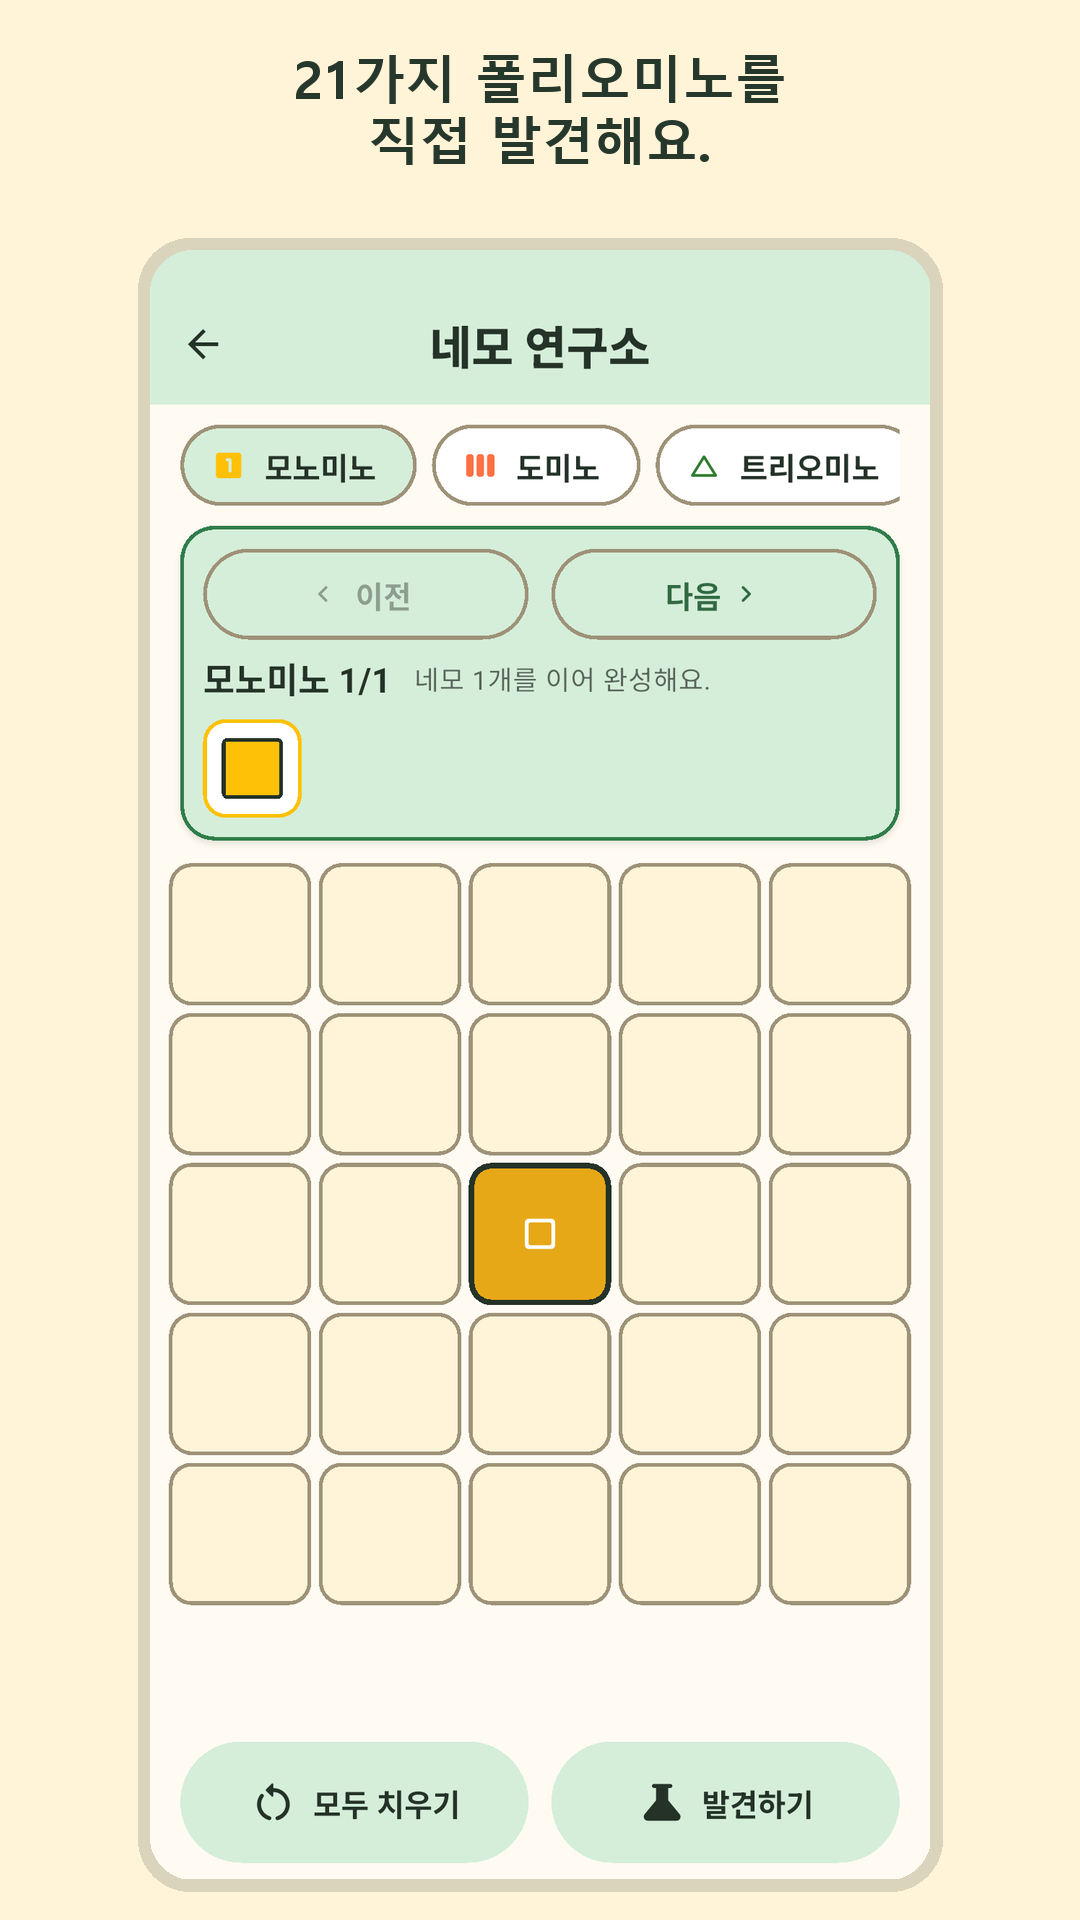
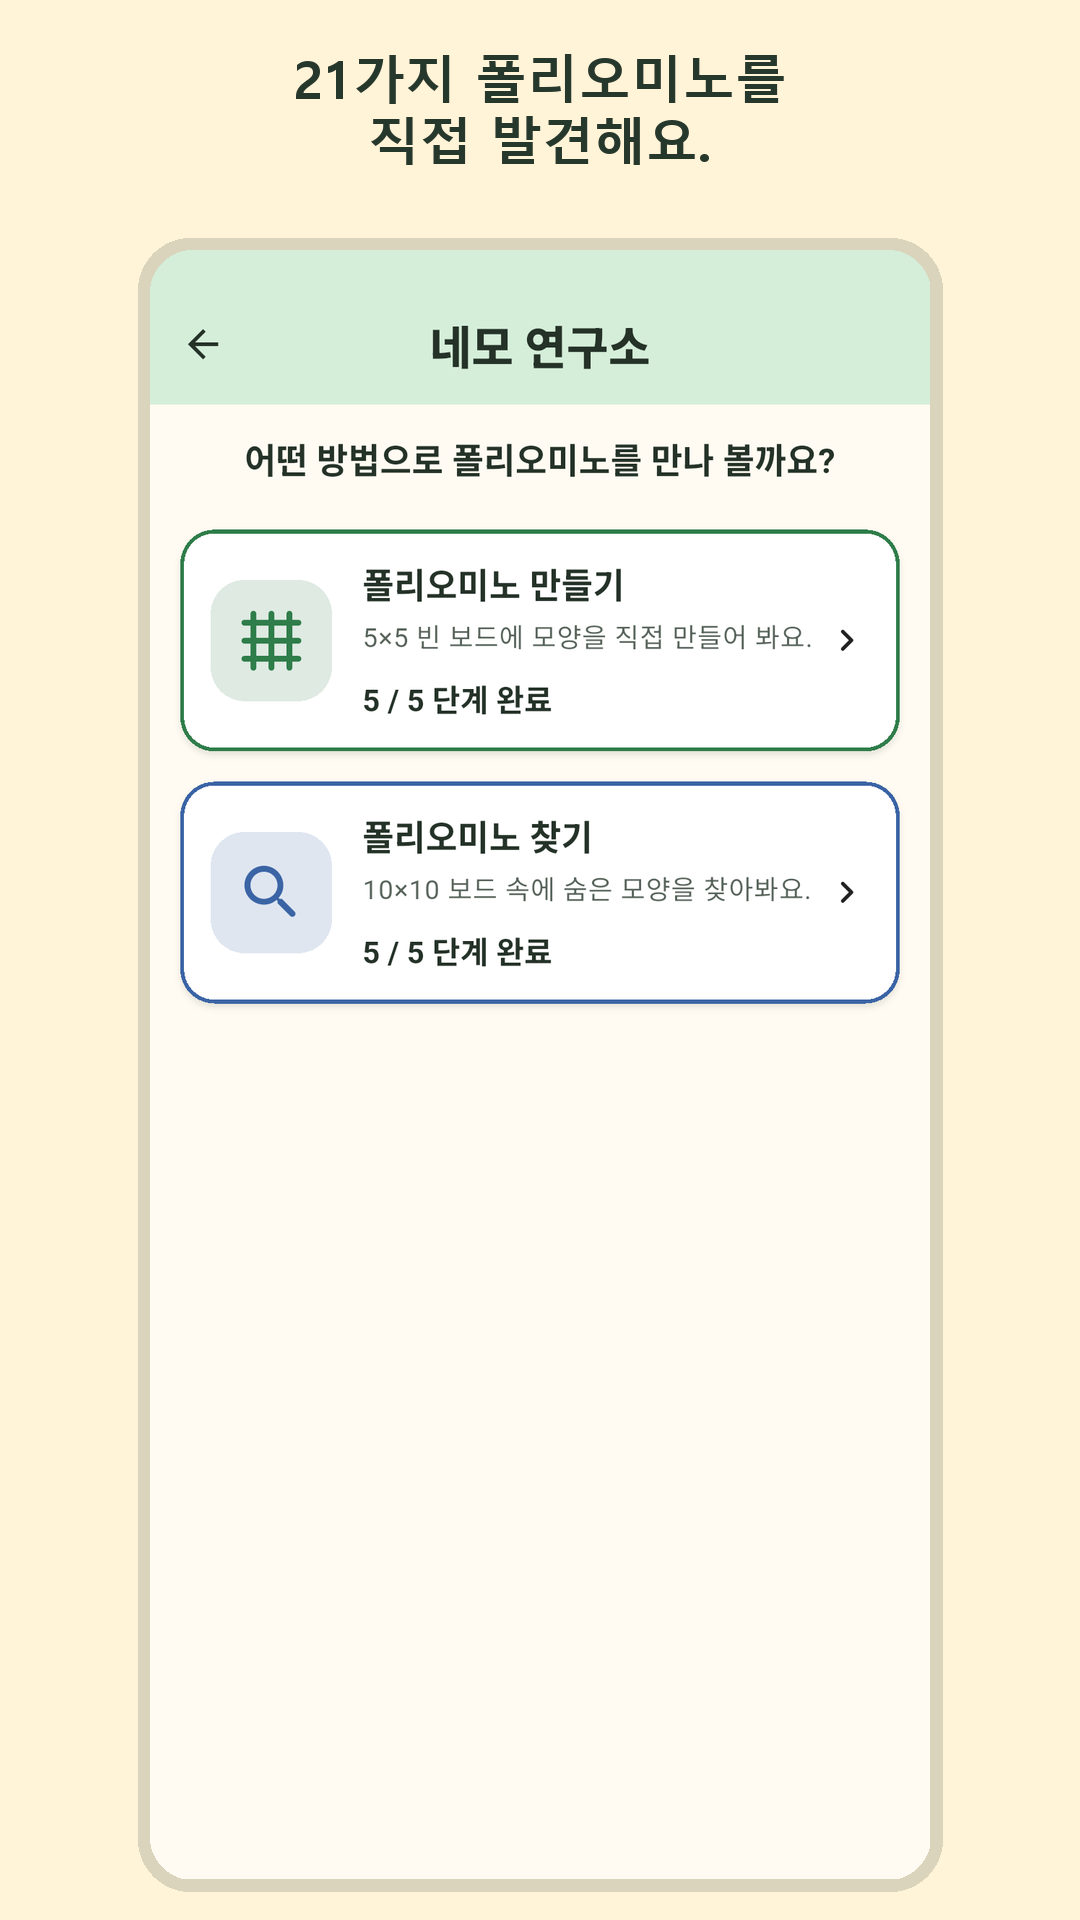
Update Polyomino World content

diff --git a/polyomino-world/index.html b/polyomino-world/index.html
@@ -3,7 +3,7 @@
 <head>
   <meta charset="utf-8">
   <meta name="viewport" content="width=device-width, initial-scale=1">
-  <meta name="description" content="21가지 폴리오미노를 발견하고, 8개 월드와 64개 퍼즐을 탐험하는 어린이 공간 퍼즐 게임">
+  <meta name="description" content="21가지 폴리오미노를 발견하고, 4개 월드와 32개 퍼즐을 탐험하는 어린이 공간 퍼즐 게임">
   <meta property="og:title" content="폴리오미노 월드 | 네모 탐험대">
   <meta property="og:description" content="폴리오미노를 발견하고, 돌리고, 맞추며 떠나는 어린이 퍼즐 여행">
   <meta property="og:image" content="https://nemoexplorers.github.io/polyomino-world/google_play/assets/feature_graphic_1024x500.png">
@@ -38,8 +38,8 @@
       </div>
       <dl class="product-facts" aria-label="게임 주요 구성">
         <div><dt>21</dt><dd>가지 폴리오미노</dd></div>
-        <div><dt>8</dt><dd>개의 탐험 월드</dd></div>
-        <div><dt>64</dt><dd>개의 퍼즐 단계</dd></div>
+        <div><dt>4</dt><dd>개의 탐험 월드</dd></div>
+        <div><dt>32</dt><dd>개의 퍼즐 단계</dd></div>
       </dl>
     </section>
 
@@ -64,7 +64,7 @@
         </figure>
         <figure class="screenshot-card">
           <img src="google_play/screenshots/04_world_exploration.png" width="1080" height="1920" alt="월드 탐험 화면" loading="lazy">
-          <figcaption><strong>월드 탐험</strong><span>8개 월드를 지나며 64개의 퍼즐 단계를 완성해요.</span></figcaption>
+          <figcaption><strong>월드 탐험</strong><span>4개 월드를 지나며 32개의 퍼즐 단계를 완성해요.</span></figcaption>
         </figure>
         <figure class="screenshot-card">
           <img src="google_play/screenshots/05_daily_puzzle.png" width="1080" height="1920" alt="오늘의 퍼즐 화면" loading="lazy">
